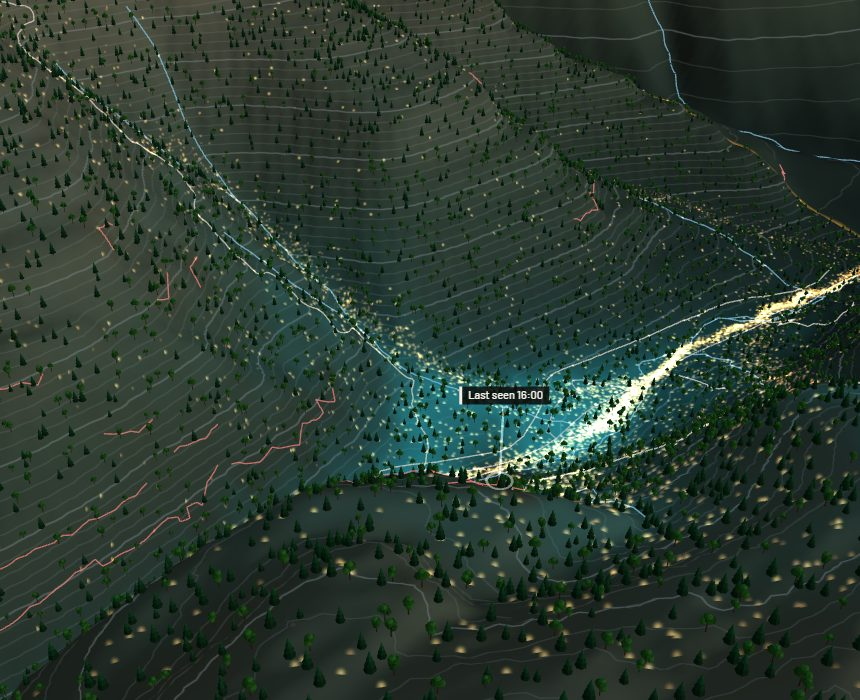
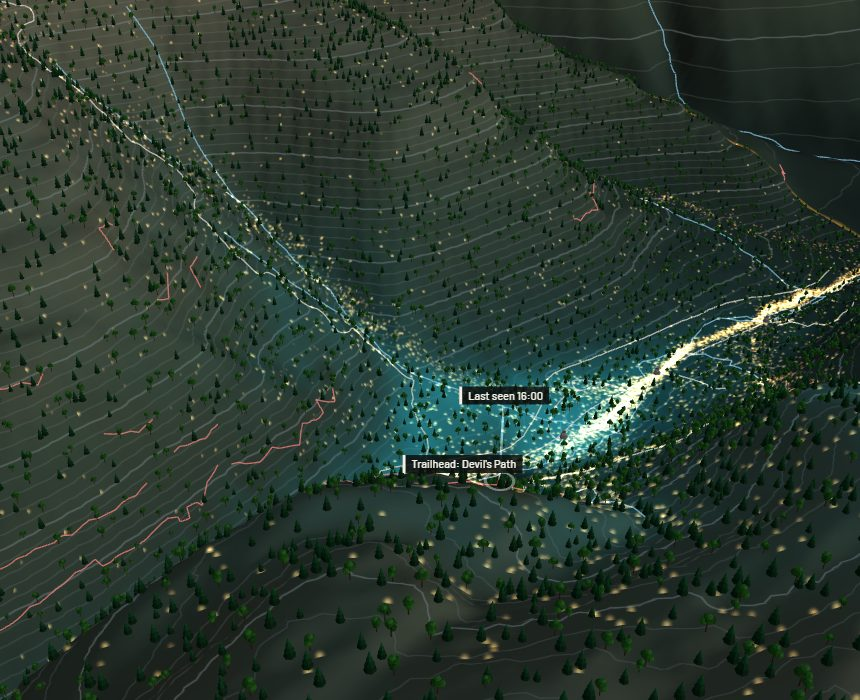
Warm-up for the first heatmap, Docker + WindNinja CI job, README update, refreshed site images
- helper workers run a tiny throwaway ensemble when the area loads (first heatmap
  ~0.5-0.9 s in production instead of ~1.05 s)
- CI builds the server image with layer caching and runs the backend tests inside it,
  including a real WindNinja run on a sample DEM (new smoke test)
- README: past-midnight windows, parallel ensembles, trailheads, shadows, hosting
  with a private repository
- site images recaptured; only named trailheads are labelled

diff --git a/frontend/src/workers/compute.worker.ts b/frontend/src/workers/compute.worker.ts
@@ -52,6 +52,7 @@ interface State {
   snapshots: { key: string; byHour: Map<number, Float32Array> } | null;
   profile: keyof typeof PROFILES;
   lkp: [number, number];
+  warmed: boolean;
 }
 
 interface Ensemble {
@@ -110,6 +111,7 @@ function init(m: InitMsg) {
     snapshots: null,
     profile: 'child712',
     lkp: [0, 0],
+    warmed: false,
   };
   // helper workers run ensemble members in parallel (inline fallback if unavailable)
   pool?.terminate();
@@ -412,6 +414,11 @@ async function handle({ id, req }: Envelope): Promise<void> {
         s.lkp = req.lkp;
         recomputePrior();
         result = recomputePosterior();
+        if (!s.warmed && pool && s.detailPost) {
+          // first probability map: warm the helpers in the background
+          s.warmed = true;
+          pool.warm(s.detailPost, s.wind.hours[Math.min(2, s.wind.hours.length - 1)]);
+        }
         break;
       }
       case 'brush': {

diff --git a/frontend/src/scene/Landmarks.tsx b/frontend/src/scene/Landmarks.tsx
@@ -75,9 +75,8 @@ export function Landmarks({ bundle }: { bundle: AreaBundle }) {
         return (
           <group key={i}>
             <Cairn position={p} />
-            {view === 'scene' && (
-              <Label position={[p[0], p[1] + 38 * VERT_EXAG, p[2]]}>{t.name ? `Trailhead: ${t.name}` : 'Trailhead'}</Label>
-            )}
+            {/* only named trailheads get a label; the rest are plain cairns (keeps the map readable) */}
+            {view === 'scene' && t.name && <Label position={[p[0], p[1] + 38 * VERT_EXAG, p[2]]}>{`Trailhead: ${t.name}`}</Label>}
           </group>
         );
       })}

diff --git a/frontend/src/workers/pool.ts b/frontend/src/workers/pool.ts
@@ -40,6 +40,13 @@ export class EnsemblePool {
     });
   }
 
+  /** Tiny throwaway runs so every helper has started, compiled its hot loop and cached sun masks. */
+  warm(prob: Float32Array, tEnd: number) {
+    for (let i = 0; i < this.workers.length; i++) {
+      this.run({ prob, tEnd, members: 1, memberRange: [0, 1], particles: 150, windowMin: 60, dt: 60, seed: i, withBlocks: false }).catch(() => undefined);
+    }
+  }
+
   terminate() {
     for (const w of this.workers) w.terminate();
     this.workers = [];

diff --git a/backend/tests/test_windninja_smoke.py b/backend/tests/test_windninja_smoke.py
@@ -1,0 +1,54 @@
+"""End-to-end WindNinja check. Runs inside the Docker image (CI); skipped where the CLI is absent."""
+import os
+from pathlib import Path
+
+import numpy as np
+import pytest
+
+from app import windninja
+from app.windninja import collect_outputs, parse_asc, speed_dir_to_uv_grid, write_cfg
+
+SAMPLE_DEM = Path(os.environ.get("WINDNINJA_DATA", "/opt/windninja/data")) / "big_butte_small.tif"
+
+pytestmark = pytest.mark.skipif(not windninja.available() or not SAMPLE_DEM.exists(), reason="WindNinja CLI or sample DEM not available")
+
+
+def test_domain_average_run_and_direction_convention(tmp_path):
+    out = tmp_path / "run"
+    out.mkdir()
+    cfg = out / "run.cfg"
+    write_cfg(cfg, {
+        "num_threads": 2,
+        "elevation_file": str(SAMPLE_DEM),
+        "initialization_method": "domainAverageInitialization",
+        "time_zone": "America/Boise",
+        "input_speed": 5.0, "input_speed_units": "mps",
+        "input_direction": 270.0,  # wind FROM the west
+        "input_wind_height": 10.0, "units_input_wind_height": "m",
+        "output_wind_height": 2.0, "units_output_wind_height": "m",
+        "output_speed_units": "mps",
+        "vegetation": "grass",
+        "diurnal_winds": True,
+        "uni_air_temp": 20.0, "air_temp_units": "C",
+        "uni_cloud_cover": 10.0, "cloud_cover_units": "percent",
+        "year": 2026, "month": 7, "day": 15, "hour": 14, "minute": 0,
+        "mesh_resolution": 120.0, "units_mesh_resolution": "m",
+        "write_ascii_output": True,
+        "write_goog_output": False,
+        "write_shapefile_output": False,
+        "write_farsite_atm": False,
+        "output_path": str(out),
+    })
+    windninja._run(cfg, out)
+    outputs = collect_outputs(out)
+    assert outputs, "WindNinja wrote no *_vel.asc / *_ang.asc pair"
+    vel_path, ang_path = next(iter(outputs.values()))
+    vel, _ = parse_asc(vel_path)
+    ang, _ = parse_asc(ang_path)
+    assert np.isfinite(vel).mean() > 0.9
+    assert 1.0 < float(np.nanmean(vel)) < 10.0
+    # "from" convention: input from 270 -> output mostly from the west, blowing east (u > 0)
+    med = float(np.nanmedian(ang))
+    assert 225 < med < 315
+    u, _ = speed_dir_to_uv_grid(vel, ang)
+    assert float(np.nanmean(u)) > 0.5

diff --git a/README.md b/README.md
@@ -1,6 +1,6 @@
 # Scent Cone
 
-**Live demo (offline mode, runs entirely in the browser):** https://chr1spu.github.io/scent-cone/
+The repository is private, so the GitHub Pages site is off. To publish the site, see [Deploying](#deploying).
 
 **Where and when to deploy air-scent dogs.** Scent Cone shows a search area as interactive 3D terrain, computes terrain-adjusted wind with the US Forest Service's **WindNinja**, simulates how human scent drifts from where a missing person might be, and recommends dog-team deployment points. When dogs alert, or search a sector and find nothing, it updates where the person probably is.
 
@@ -60,7 +60,7 @@ cd frontend && npm run dev         # Vite proxies /api to VITE_BACKEND_URL (defa
 
 Live mode fetches USGS 3DEP terrain, NLCD land cover, OpenStreetMap features and Open-Meteo weather, then runs WindNinja for every hour of an 8-hour window as a background job (about a minute for a new area, instant when cached).
 
-* **Search area (live):** type any latitude/longitude (it becomes the last known point), a date and a start hour, or tick **Today, from the current hour** for a real-time run. For today, WindNinja is initialised from NOAA's live **HRRR 3 km forecast**; past dates use Open-Meteo hourly wind (domain-average initialisation). Time zones are looked up from the coordinates.
+* **Search area (live):** type any latitude/longitude (it becomes the last known point), a date and a start hour, or tick **Today, from the current hour** for a real-time run. For today, WindNinja is initialised from NOAA's live **HRRR 3 km forecast**; past dates use Open-Meteo hourly wind (domain-average initialisation). Time zones are looked up from the coordinates. A window can run past midnight (for example 20:00 to 04:00); each hour uses its own calendar date.
 * **Move focus → Compute detail:** drag the 3 km square somewhere else in the 12 km area and recompute it.
 
 ### Rebuild the demo bundle
@@ -77,7 +77,8 @@ Without Docker (fallback wind only): `cd backend && python -m venv .venv && .ven
 ```bash
 cd frontend && npm test            # vitest: wind conversion, bilinear, probability, advection, decay, backtrace, deployment,
                                    #   nose-height wind, continuous plumes, ridge shadows, neutral reference
-cd backend && pytest -q            # grid metadata, WindNinja .asc parsing, cache hits, fallback wind
+cd backend && pytest -q            # grid metadata, WindNinja .asc parsing, cache hits, fallback wind, shadows, midnight
+docker compose run --rm backend pytest -q   # the same inside the image, plus a real WindNinja run
 ```
 
 ## How it works
@@ -96,8 +97,9 @@ cd backend && pytest -q            # grid metadata, WindNinja .asc parsing, cach
 ```
 
 * **Probability** (`frontend/src/models/probability.ts`): log-normal distance from the LKP by profile (Lost Person Behavior medians), × linear-feature attraction, × 0.2 behind water and cliffs (least-cost detour ratio), × slope penalty, water = 0, plus a ±brush.
-* **Wind** (`models/wind.ts`, `backend/app/windninja.py`): WindNinja mass-conserving solver with diurnal winds at 2 m. It uses HRRR initialisation when the forecast exists, and otherwise domain-average initialisation from Open-Meteo for each hour. The direction convention was checked against real WindNinja output. A slope-wind fallback (forecast ×0.7, downslope at night, upslope on sunny slopes) is implemented in both Python and TypeScript.
-* **Scent** (`models/scent.ts`): scent is released **continuously** from every likely location (births spread over a 40-minute particle lifetime), so the heatmap is a steady plume, not one drifting puff. Particles move with the wind **at dog-nose height (0.6 m)**: the 2 m model wind scaled by a log wind profile over open ground (≈0.71×) or a sub-canopy factor in forest (0.3×). Each step adds a random walk (K = 0.5 + 0.3·U), pools particles in calm hollows, decays them with humidity/temperature/sun, and lofts some off sunlit slopes. Sunlight accounts for slope aspect **and ridge shadows** (ray-marched over the terrain). Six perturbed-wind ensemble members (±20°, ×0.7–1.3) build the 60-minute heatmap in a Web Worker; the 15k on-screen particles run in a second worker.
+* **Wind** (`models/wind.ts`, `backend/app/windninja.py`): WindNinja mass-conserving solver with diurnal winds at 2 m. It uses HRRR initialisation when the forecast exists, and otherwise domain-average initialisation from Open-Meteo for each hour. The direction convention was checked against real WindNinja output. A slope-wind fallback (forecast ×0.7, downslope at night, upslope on slopes that face the sun and are not in a ridge's shadow) is implemented in both Python and TypeScript.
+* **Scent** (`models/scent.ts`): scent is released **continuously** from every likely location (births spread over a 40-minute particle lifetime), so the heatmap is a steady plume, not one drifting puff. Particles move with the wind **at dog-nose height (0.6 m)**: the 2 m model wind scaled by a log wind profile over open ground (≈0.71×) or a sub-canopy factor in forest (0.3×). Each step adds a random walk (K = 0.5 + 0.3·U), pools particles in calm hollows, decays them with humidity/temperature/sun, and lofts some off sunlit slopes. Sunlight accounts for slope aspect **and ridge shadows** (ray-marched over the terrain). Six perturbed-wind ensemble members (±20°, ×0.7–1.3) build the 60-minute heatmap; each member runs as its own task on a pool of helper workers, so a heatmap takes about 0.7 s (identical to a sequential run, which a test checks). The 15k on-screen particles run in their own worker.
+* **Trailheads**: trail ends that meet a road inside the focus square are marked with stone cairns, as likely entry points.
 * **Detectability** is absolute: θ1/θ2 are the 70th/95th percentiles of a reference run with the same wind but neutral scent conditions, so heat, sun and lofting really lower it. The time slider's "Scent" rating shows scent present as a share of that reference.
 * **Deployment** (`models/hotspots.ts`): source (100 m) → receiver (50 m) contribution tracking, detectability against the reference thresholds, greedy picks with dog POD 0.7, 300 m spacing, slope ≤ 35°, no water, and at least 20 m from cliffs. Best time window comes from hourly snapshots.
 * **Alerts and negative updates** (`models/triangulation.ts`, `models/searchUpdate.ts`): a 60-minute backward particle trace gives each alert's zone, and the posterior is prior · Π(ε + zone). A searched sector (circle or drawn polygon, 30–120 minute window) with no alert lowers each source by POD = 0.7 × the share of its scent that reached the sector, and flags sectors searched in poor scent conditions for a recheck.
@@ -119,15 +121,15 @@ backend/    FastAPI + WindNinja CLI (Docker), terrain/landcover/OSM/weather pipe
 
 ## Deploying
 
-* **Frontend (static):** `.github/workflows/pages.yml` publishes to GitHub Pages. It deploys on every push to `main` (live at https://chr1spu.github.io/scent-cone/). `netlify.toml`, `frontend/vercel.json` and `render.yaml` are ready for Netlify, Vercel or Render. Set `VITE_API_BASE` to a hosted backend URL to enable live mode.
+* **Frontend (static):** the repository is private, and GitHub Pages needs a public repository on the free plan (or GitHub Pro). `.github/workflows/pages.yml` still works if Pages is available: set the repository variable `PAGES_ENABLED=true`. Netlify, Vercel and Cloudflare Pages all deploy from private repositories for free; `netlify.toml` and `frontend/vercel.json` are ready. Set `VITE_API_BASE` to a hosted backend URL to enable live mode.
+* **CI:** every push runs the frontend checks, the backend tests, and a Docker build of the server with the tests run inside it (including a real WindNinja run).
 * **Backend (Docker):** `backend/fly.toml` (Fly.io) or `render.yaml` (Render). It needs about 2 GB RAM for WindNinja. Alternatively, run `docker compose up` on a laptop and expose it with a Cloudflare Tunnel.
 
 ## Known limitations
 
 * The public site runs the offline demo only; live mode needs the backend running somewhere (see Deploying).
-* A modelled window stays within one calendar day (start hour + 8 h, capped at 23:00).
-* A new heatmap takes about 2 s to compute after the slider moves (it runs in a worker, so the UI stays responsive).
-* The fallback slope-wind model uses slope aspect for sunlit slopes but not ridge shadows (the scent model does use shadows).
+* A modelled window is 8 hours; the WindNinja forecast (HRRR) is only available for roughly the next two days.
+* A new heatmap takes about 0.7 s after the slider moves (it runs in background workers, so the UI stays responsive).
 * Lost-person distances for children 7–12 and dementia in wilderness are placeholders to tune.
 
 ## Data sources and credits
